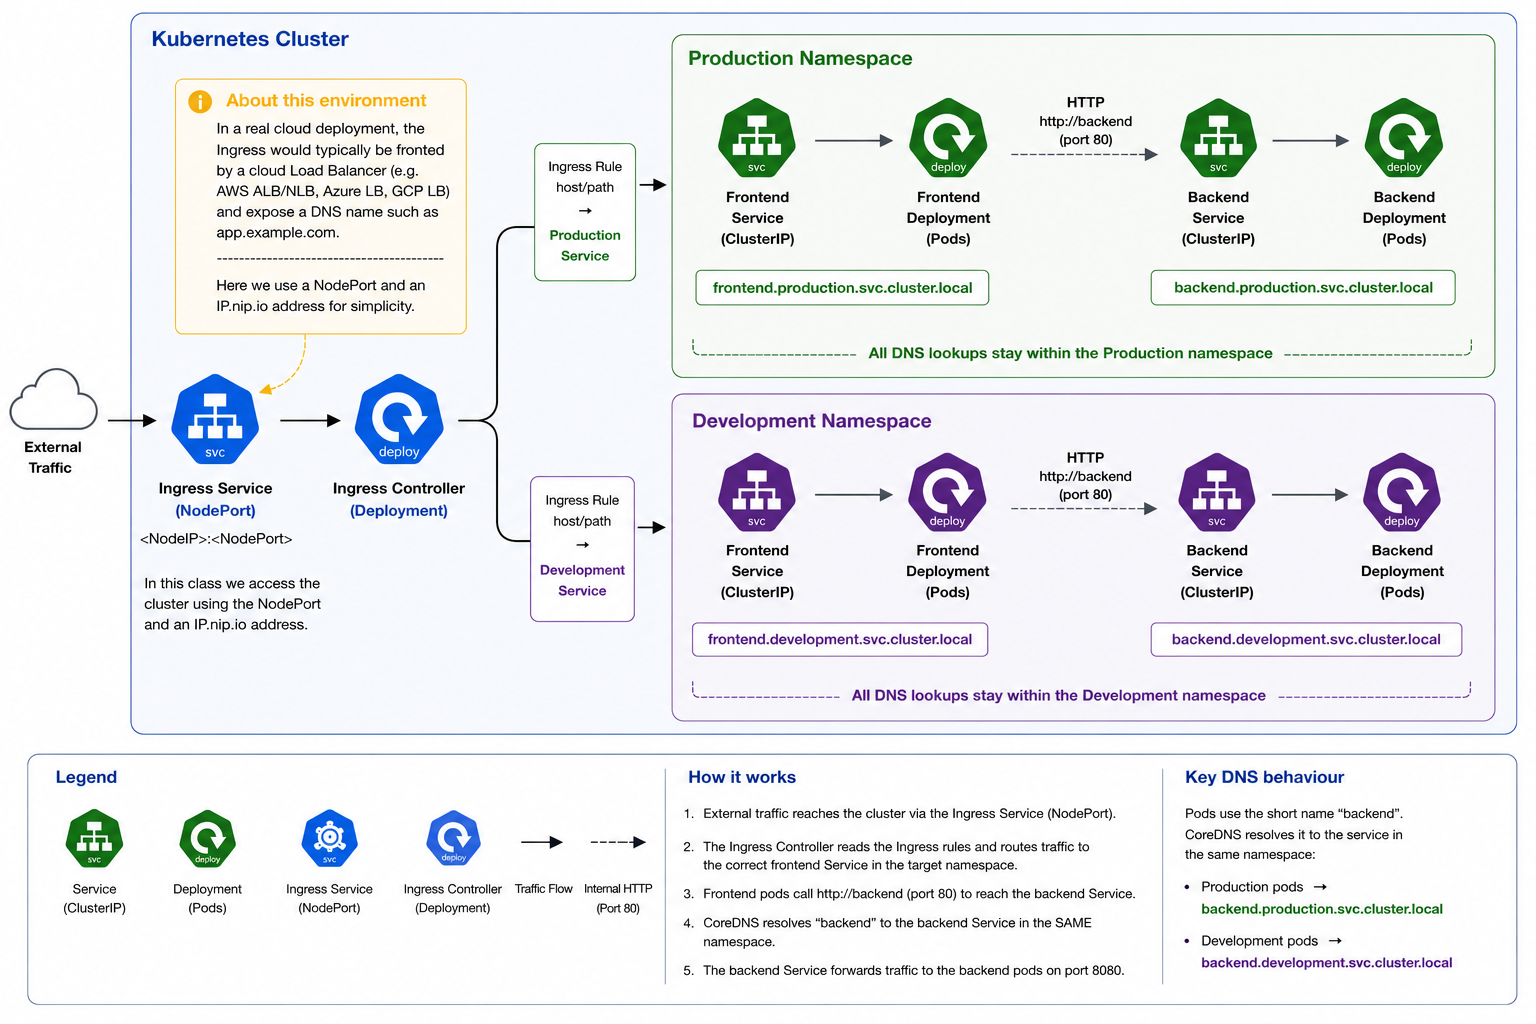
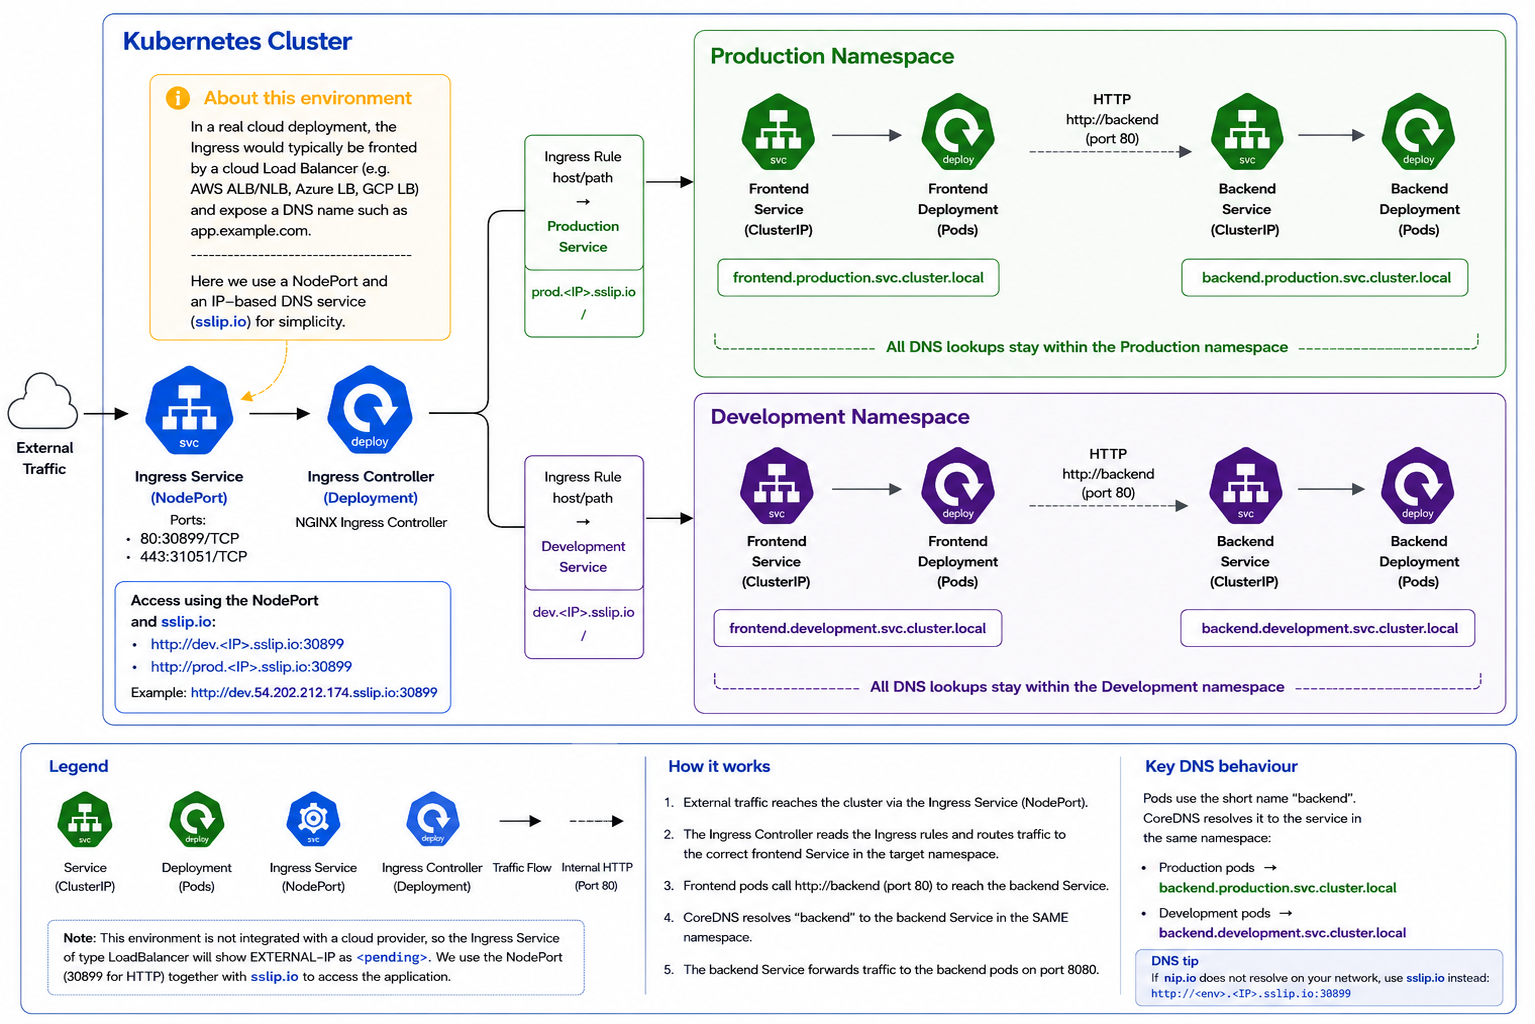
lab4

Changed region(s): [[0.0, 0.0, 1.0, 1.0]]

diff --git a/labs04/lab4.md b/labs04/lab4.md
@@ -223,7 +223,7 @@ metadata:
 spec:
   ingressClassName: nginx
   rules:
-  - host: dev.{controller-pubic-ip}.nip.io # make sure this matches your controller node's IP address
+  - host: dev.{controller-pubic-ip}.nip.io # <Update this line>
     http:
       paths:
       - path: /